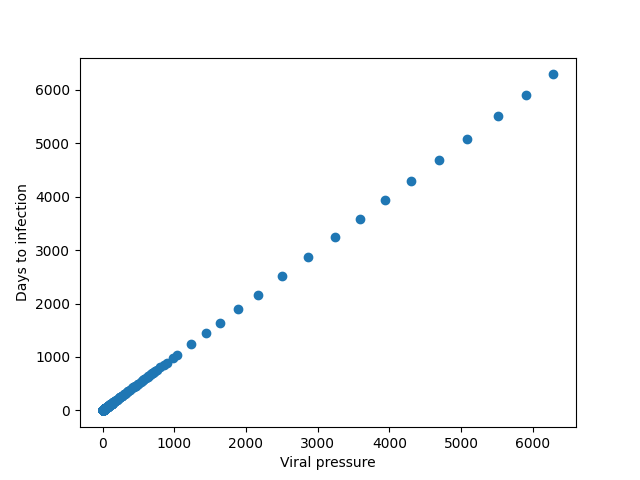
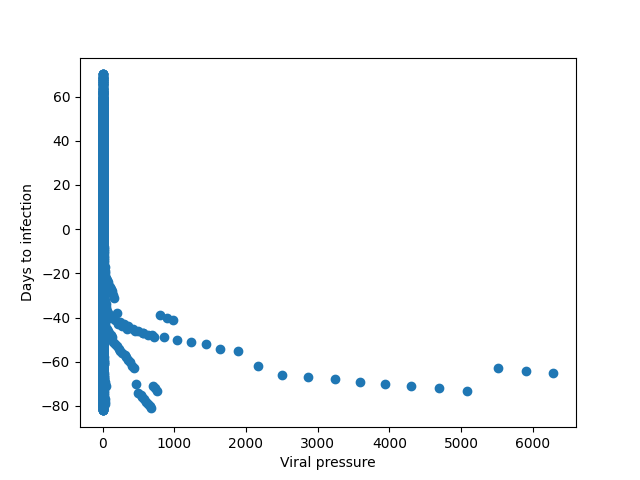
line up X and y by trimming X

diff --git a/analysis.py b/analysis.py
@@ -5,7 +5,7 @@ import random
 import csv
 import matplotlib.pyplot as plt
 import json
-from scipy import stats
+from scipy import stats 
 import statsmodels.api as sm
 from statsmodels.tools import eval_measures
 import statsmodels.formula.api as smf
@@ -50,11 +50,15 @@ def get_connectedness_data(db_location):
 			(
 				select airports.country
 				from airports
+				join (select country from cases) as case_country
+				on case_country.country = airports.country
 				where airports.iata = departure_code
 			) as departure_country,
 			(
 				select airports.country
 				from airports
+				join (select country from cases) as case_country
+				on case_country.country = airports.country
 				where airports.iata = arrival_code
 			) as arrival_country
 		from (
@@ -72,6 +76,7 @@ def get_connectedness_data(db_location):
 	) as case_data
 	on case_data.country = connections.departure_country
 	where arrival_country != departure_country -- only international flights
+	;
 	"""
 	# Join case data and route data on country
 	# We now have a time series of cases of over time matched with
@@ -88,7 +93,7 @@ def get_connectedness_data(db_location):
 		date :: String, # Date of case data
 	]
 	"""
-	countries_query = "select name from countries;"
+	countries_query = "select country from cases"
 	countries = [row[0] for row in c.execute(countries_query)]
 	conn.close()
 
@@ -116,7 +121,7 @@ def flatten_data(data):
 	"""Flatten x into an array of tuples"""
 	conn = sqlite3.connect("data.db")
 	c = conn.cursor()
-	countries_query = "select name from countries;"
+	countries_query = "select country from cases group by country;"
 	countries = [row[0] for row in c.execute(countries_query)]
 	conn.close()
 
@@ -246,13 +251,14 @@ if __name__ == "__main__":
 	print(len(X), len(y))
 	x_sorted = sorted(X, key=lambda x: x[0] + x[1])
 	y_sorted = sorted(y, key=lambda x: x[0] + x[1])
-	x_sorted_pressure = [x[2] for x in x_sorted][:15170]
+	# TODO: This is cheating and produces garbage
+	x_sorted_pressure = [x[2] for x in x_sorted]
 	y_sorted_days = [y[2] for y in y_sorted]
 	# TODO: X and y are different lengths which means we've got a problem
-	# plt.scatter(x_sorted_pressure, y_sorted_days)
-	# plt.ylabel("Days to infection")
-	# plt.xlabel("Viral pressure")
-	# plt.savefig("results/full_scatter.png")
+	plt.scatter(x_sorted_pressure, y_sorted_days)
+	plt.ylabel("Days to infection")
+	plt.xlabel("Viral pressure")
+	plt.savefig("results/full_scatter.png")
 	# pp.pprint(y)
 	# TODO: Collect y
 	# Print out all countries for each date where viral pressure is not 0
@@ -264,7 +270,7 @@ if __name__ == "__main__":
 	print("Top 10 rows by viral pressure:")
 	pp.pprint(rows_sorted_by_pressure[:10])
 
-	plt.hist([x[2] for x in nonzero_x], range=(5, 1000))
+	plt.hist([x[2] for x in nonzero_x])
 	plt.ylabel("Viral Pressure")
 	plt.savefig("results/viral_pressure.png")
 
